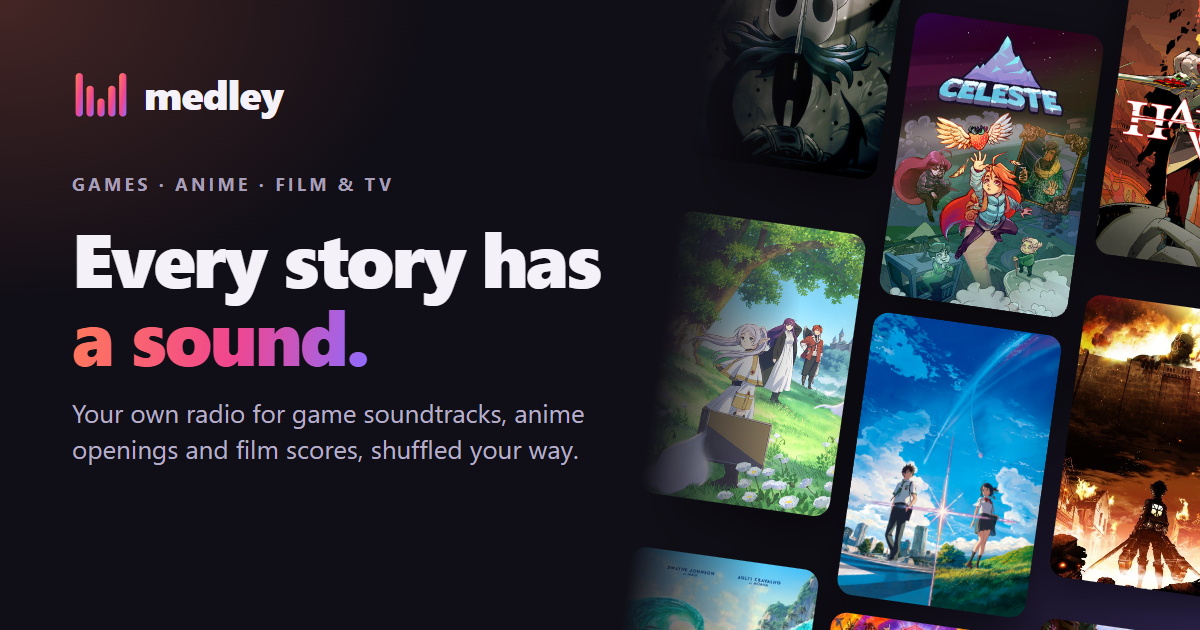
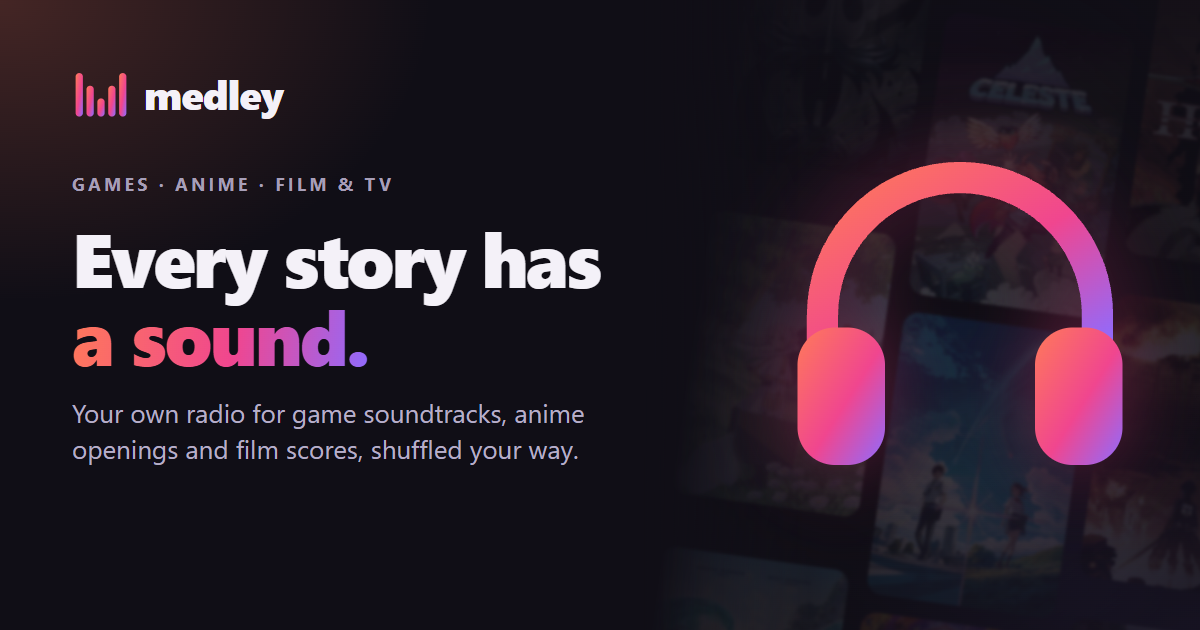
Link-preview card: headphones up front, cover art dimmed behind

diff --git a/index.html b/index.html
@@ -11,10 +11,10 @@
     <meta property="og:title" content="Medley: every story has a sound" />
     <meta property="og:description" content="Your own radio for game soundtracks, anime openings and film &amp; TV scores, shuffled your way. No account, no ads." />
     <meta property="og:url" content="%MEDLEY_SITE%" />
-    <meta property="og:image" content="%MEDLEY_SITE%og-image.png" />
+    <meta property="og:image" content="%MEDLEY_SITE%og-image.png?v=2" />
     <meta property="og:image:width" content="1200" />
     <meta property="og:image:height" content="630" />
-    <meta property="og:image:alt" content="Medley: Every story has a sound. Covers of Hollow Knight, Celeste, Frieren, Your Name and Attack on Titan." />
+    <meta property="og:image:alt" content="Medley: Every story has a sound. Gradient headphones over a wall of soundtrack covers." />
     <meta name="twitter:card" content="summary_large_image" />
     <!-- YouTube's embedded player needs to know which site embeds it (it rejects requests
          without a Referer). This keeps the origin, never full URLs, on cross-site requests. -->
